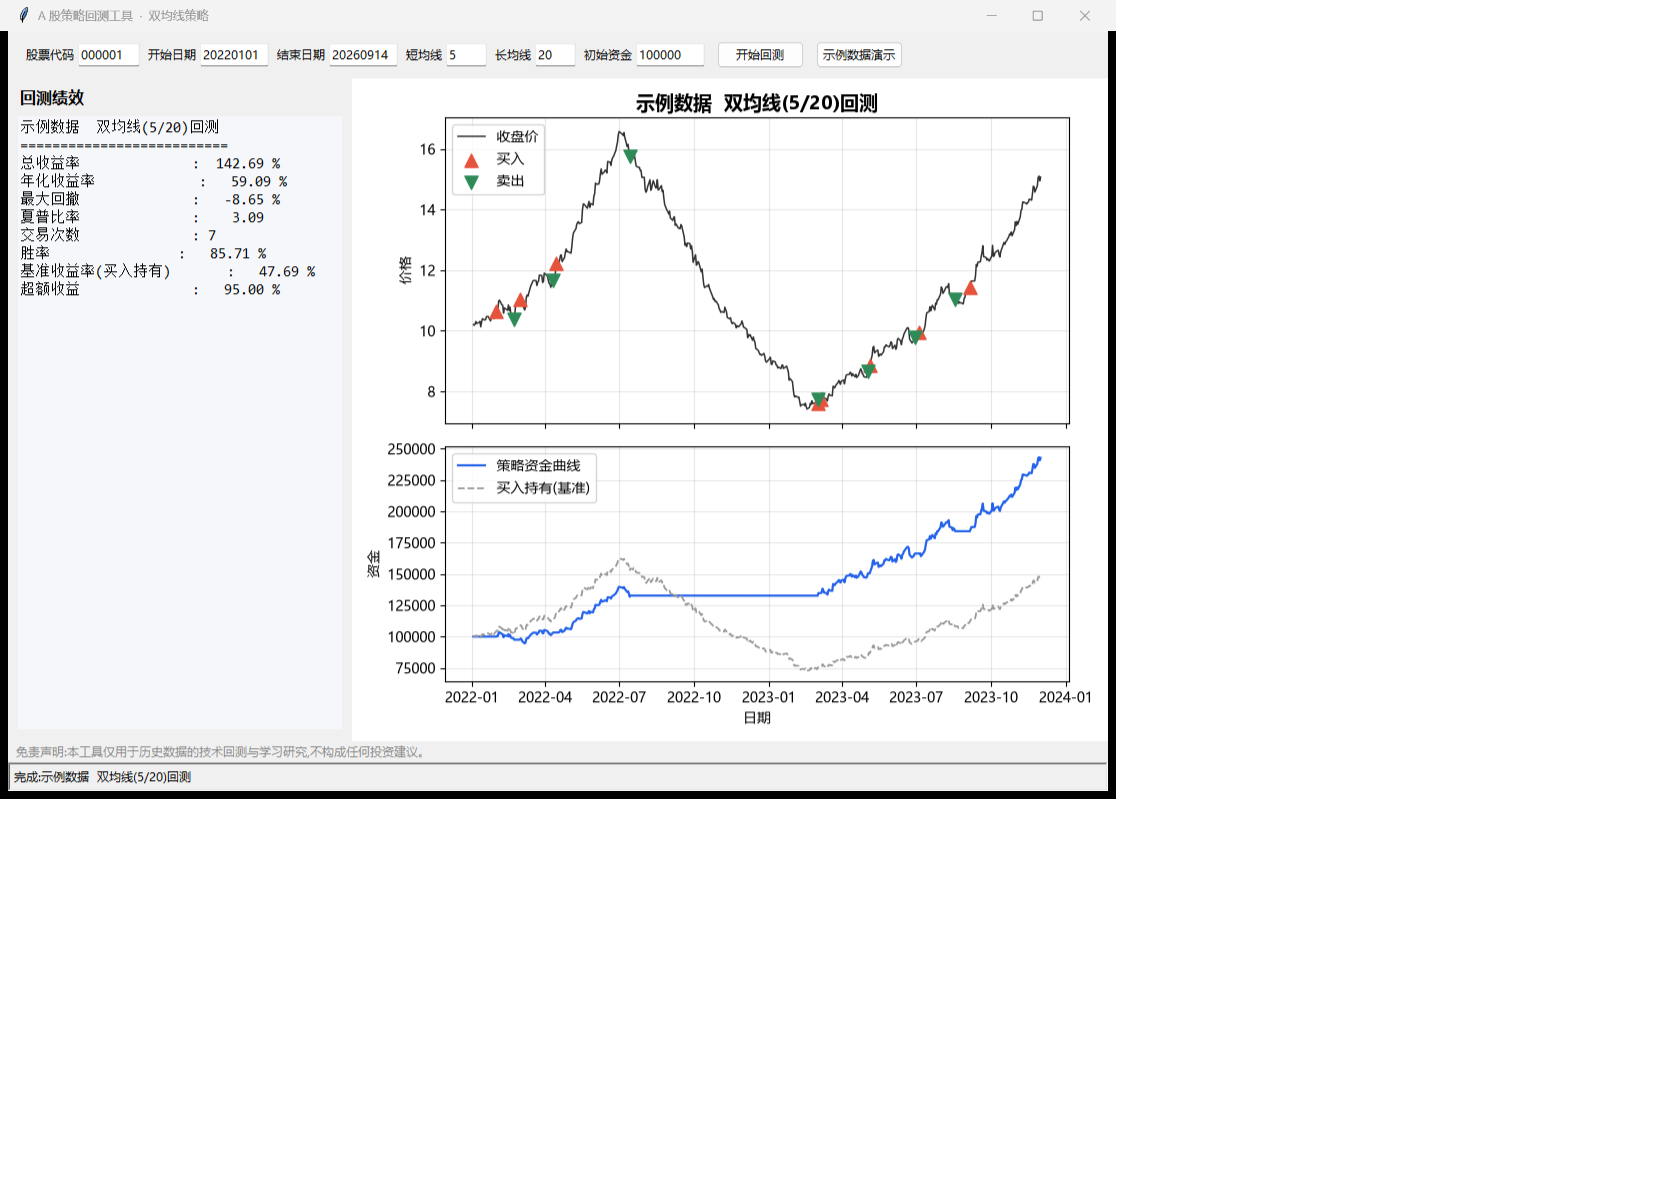
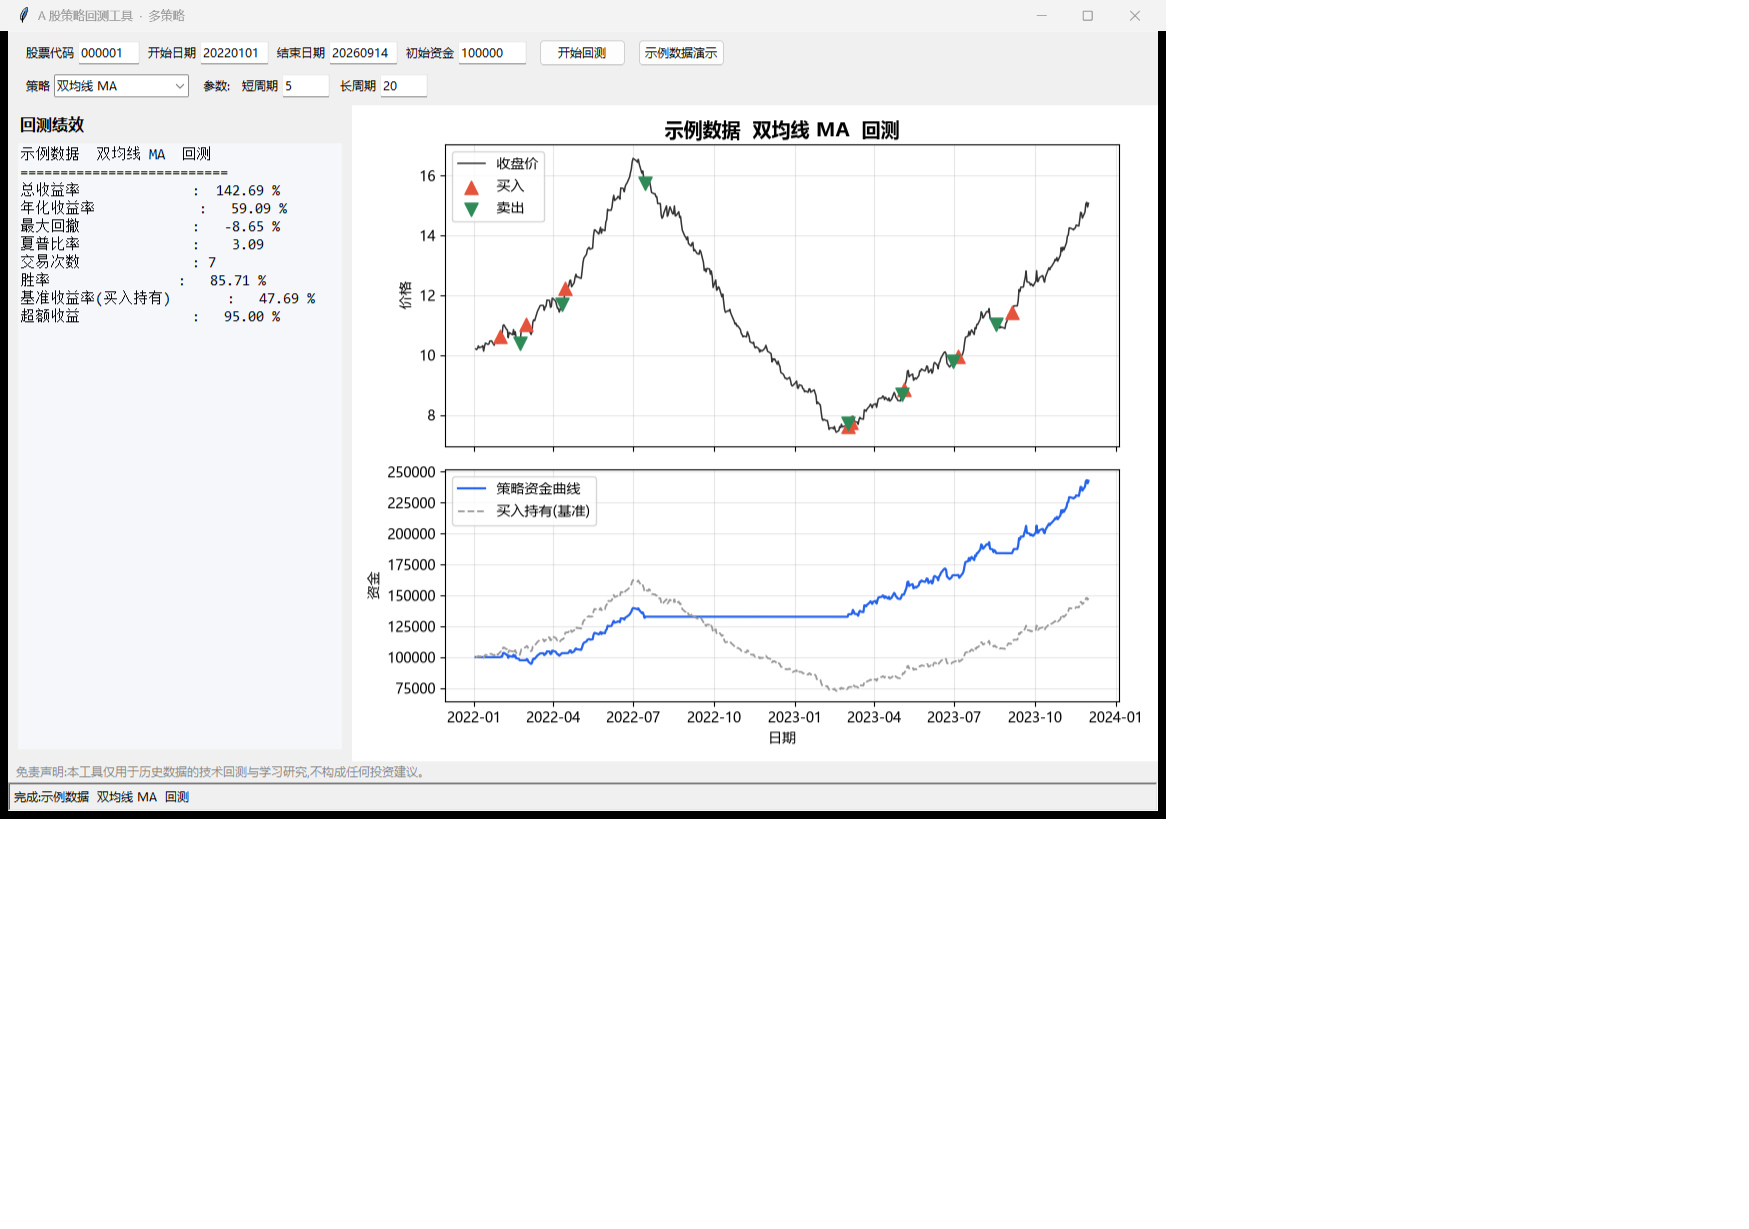
新增 RSI / 布林带 / MACD 策略,GUI 支持策略选择与动态参数

diff --git a/gui.py b/gui.py
@@ -1,8 +1,8 @@
 # -*- coding: utf-8 -*-
 """A 股策略回测工具 —— 图形界面(tkinter)
 
-输入股票代码与参数,点击"开始回测"即可查看绩效指标与资金曲线图。
-不懂代码也能用。
+选择策略、输入股票代码与参数,点击"开始回测"即可查看绩效指标与资金曲线图。
+内置双均线 / RSI / 布林带 / MACD 四种策略。不懂代码也能用。
 """
 
 import os
@@ -15,8 +15,8 @@ from matplotlib.figure import Figure
 from matplotlib.backends.backend_tkagg import FigureCanvasTkAgg
 
 from stock_backtest import (
-    BacktestConfig, load_data_akshare, load_data_csv,
-    signal_ma_cross, run_backtest, format_metrics,
+    BacktestConfig, STRATEGIES, strategy_label_to_key,
+    load_data_akshare, load_data_csv, run_backtest, format_metrics,
 )
 from plotting import render_axes
 
@@ -26,37 +26,62 @@ HERE = os.path.dirname(os.path.abspath(__file__))
 class BacktestApp:
     def __init__(self, root: tk.Tk):
         self.root = root
-        root.title("A 股策略回测工具  ·  双均线策略")
-        root.geometry("1100x760")
+        root.title("A 股策略回测工具  ·  多策略")
+        root.geometry("1150x780")
 
+        self.param_vars = {}   # 当前策略的参数变量
         self._build_input_bar()
         self._build_body()
-        self._set_status("就绪。输入股票代码后点击「开始回测」;无网络可点「示例数据演示」。")
+        self._rebuild_params()  # 初始化参数区
+        self._set_status("就绪。选择策略、输入股票代码后点「开始回测」;无网络可点「示例数据演示」。")
 
-    # ----- 顶部输入栏 -----
+    # ----- 顶部输入区(两行) -----
     def _build_input_bar(self):
-        bar = ttk.Frame(self.root, padding=10)
+        bar = ttk.Frame(self.root, padding=(10, 8))
         bar.pack(side=tk.TOP, fill=tk.X)
 
+        # 第一行:代码 / 日期 / 资金 / 按钮
+        row1 = ttk.Frame(bar)
+        row1.pack(side=tk.TOP, fill=tk.X)
         self.vars = {
             "symbol": tk.StringVar(value="000001"),
             "start": tk.StringVar(value="20220101"),
             "end": tk.StringVar(value=dt.date.today().strftime("%Y%m%d")),
-            "short": tk.StringVar(value="5"),
-            "long": tk.StringVar(value="20"),
             "cash": tk.StringVar(value="100000"),
         }
-        fields = [
-            ("股票代码", "symbol", 8), ("开始日期", "start", 9), ("结束日期", "end", 9),
-            ("短均线", "short", 5), ("长均线", "long", 5), ("初始资金", "cash", 9),
-        ]
-        for label, key, width in fields:
-            ttk.Label(bar, text=label).pack(side=tk.LEFT, padx=(6, 2))
-            ttk.Entry(bar, textvariable=self.vars[key], width=width).pack(side=tk.LEFT)
-
-        self.run_btn = ttk.Button(bar, text="开始回测", command=self.on_run)
+        for label, key, width in [("股票代码", "symbol", 8), ("开始日期", "start", 9),
+                                  ("结束日期", "end", 9), ("初始资金", "cash", 9)]:
+            ttk.Label(row1, text=label).pack(side=tk.LEFT, padx=(6, 2))
+            ttk.Entry(row1, textvariable=self.vars[key], width=width).pack(side=tk.LEFT)
+        self.run_btn = ttk.Button(row1, text="开始回测", command=self.on_run)
         self.run_btn.pack(side=tk.LEFT, padx=12)
-        ttk.Button(bar, text="示例数据演示", command=self.on_run_sample).pack(side=tk.LEFT)
+        ttk.Button(row1, text="示例数据演示", command=self.on_run_sample).pack(side=tk.LEFT)
+
+        # 第二行:策略选择 + 动态参数
+        row2 = ttk.Frame(bar)
+        row2.pack(side=tk.TOP, fill=tk.X, pady=(8, 0))
+        ttk.Label(row2, text="策略").pack(side=tk.LEFT, padx=(6, 2))
+        labels = [s["label"] for s in STRATEGIES.values()]
+        self.strategy_var = tk.StringVar(value=labels[0])
+        combo = ttk.Combobox(row2, textvariable=self.strategy_var, values=labels,
+                             state="readonly", width=16)
+        combo.pack(side=tk.LEFT)
+        combo.bind("<<ComboboxSelected>>", lambda e: self._rebuild_params())
+        ttk.Label(row2, text="   参数:").pack(side=tk.LEFT)
+        self.param_frame = ttk.Frame(row2)
+        self.param_frame.pack(side=tk.LEFT)
+
+    def _rebuild_params(self):
+        """根据当前策略重建参数输入框。"""
+        for w in self.param_frame.winfo_children():
+            w.destroy()
+        self.param_vars = {}
+        key = strategy_label_to_key(self.strategy_var.get())
+        for pk, plabel, default, _typ in STRATEGIES[key]["params"]:
+            ttk.Label(self.param_frame, text=plabel).pack(side=tk.LEFT, padx=(8, 2))
+            var = tk.StringVar(value=str(default))
+            ttk.Entry(self.param_frame, textvariable=var, width=6).pack(side=tk.LEFT)
+            self.param_vars[pk] = var
 
     # ----- 主体:左指标 + 右图表 -----
     def _build_body(self):
@@ -78,8 +103,6 @@ class BacktestApp:
 
         self.status = ttk.Label(self.root, text="", anchor=tk.W, relief=tk.SUNKEN, padding=4)
         self.status.pack(side=tk.BOTTOM, fill=tk.X)
-
-        # 免责声明
         ttk.Label(self.root, text="免责声明:本工具仅用于历史数据的技术回测与学习研究,不构成任何投资建议。",
                   foreground="#888").pack(side=tk.BOTTOM, fill=tk.X, padx=6)
 
@@ -113,12 +136,15 @@ class BacktestApp:
     def _worker(self, loader):
         try:
             df, name = loader()
-            short = int(self.vars["short"].get())
-            long = int(self.vars["long"].get())
+            key = strategy_label_to_key(self.strategy_var.get())
+            spec = STRATEGIES[key]
+            kwargs = {}
+            for pk, plabel, default, typ in spec["params"]:
+                kwargs[pk] = typ(self.param_vars[pk].get())
             cash = float(self.vars["cash"].get())
-            pos = signal_ma_cross(df, short, long)
+            pos = spec["func"](df, **kwargs)
             result = run_backtest(df, pos, BacktestConfig(initial_cash=cash))
-            title = f"{name}  双均线({short}/{long})回测"
+            title = f"{name}  {spec['label']}  回测"
             self.root.after(0, self._show_result, result, title)
         except Exception as e:  # noqa: BLE001
             self.root.after(0, self._show_error, str(e))

diff --git a/cli.py b/cli.py
@@ -2,28 +2,44 @@
 """命令行入口:一条命令跑完整回测并出图。
 
 用法示例:
-    python cli.py --symbol 000001 --start 20220101 --end 20240101 --short 5 --long 20
-    python cli.py --csv mydata.csv --short 10 --long 30
+    python cli.py --symbol 000001 --start 20220101 --end 20240101
+    python cli.py --symbol 600519 --strategy macd
+    python cli.py --strategy rsi --params period=14,oversold=30,overbought=70 --symbol 000001
+    python cli.py --csv sample_data.csv --strategy boll --params period=20,num_std=2
 """
 
 import argparse
 import datetime as dt
 
 from stock_backtest import (
-    BacktestConfig, load_data_akshare, load_data_csv,
-    signal_ma_cross, run_backtest, format_metrics,
+    BacktestConfig, STRATEGIES, load_data_akshare, load_data_csv,
+    run_backtest, format_metrics,
 )
 from plotting import plot_result
 
 
+def parse_params(spec_params, params_str):
+    """把 'k=v,k=v' 解析成带类型的 kwargs,缺省用默认值。"""
+    overrides = {}
+    if params_str:
+        for kv in params_str.split(","):
+            k, _, v = kv.partition("=")
+            overrides[k.strip()] = v.strip()
+    kwargs = {}
+    for pk, plabel, default, typ in spec_params:
+        kwargs[pk] = typ(overrides[pk]) if pk in overrides else default
+    return kwargs
+
+
 def main():
-    p = argparse.ArgumentParser(description="A 股双均线策略回测工具")
+    p = argparse.ArgumentParser(description="A 股多策略回测工具")
     p.add_argument("--symbol", help="6 位股票代码,如 000001")
     p.add_argument("--csv", help="本地行情 CSV 路径(与 --symbol 二选一)")
     p.add_argument("--start", default="20220101", help="开始日期 YYYYMMDD")
     p.add_argument("--end", default=dt.date.today().strftime("%Y%m%d"), help="结束日期 YYYYMMDD")
-    p.add_argument("--short", type=int, default=5, help="短均线周期")
-    p.add_argument("--long", type=int, default=20, help="长均线周期")
+    p.add_argument("--strategy", default="ma", choices=list(STRATEGIES.keys()),
+                   help="策略: ma / rsi / boll / macd")
+    p.add_argument("--params", default="", help="策略参数,如 short=5,long=20")
     p.add_argument("--cash", type=float, default=100000, help="初始资金")
     p.add_argument("--out", default="backtest_result.png", help="输出图片路径")
     args = p.parse_args()
@@ -38,17 +54,19 @@ def main():
     else:
         p.error("请提供 --symbol 或 --csv")
 
-    pos = signal_ma_cross(df, args.short, args.long)
-    cfg = BacktestConfig(initial_cash=args.cash)
-    result = run_backtest(df, pos, cfg)
+    spec = STRATEGIES[args.strategy]
+    kwargs = parse_params(spec["params"], args.params)
+    pos = spec["func"](df, **kwargs)
+    result = run_backtest(df, pos, BacktestConfig(initial_cash=args.cash))
 
-    title = f"{name}  双均线({args.short}/{args.long})回测"
-    print("\n" + "=" * 44)
+    param_str = ", ".join(f"{k}={v}" for k, v in kwargs.items())
+    title = f"{name}  {spec['label']}({param_str})"
+    print("\n" + "=" * 48)
     print(f" {title}")
     print(f" 区间: {df.index[0].date()} ~ {df.index[-1].date()}  共 {len(df)} 个交易日")
-    print("=" * 44)
+    print("=" * 48)
     print(format_metrics(result.metrics))
-    print("=" * 44)
+    print("=" * 48)
 
     out = plot_result(result, title, args.out)
     print(f"\n资金曲线图已保存: {out}")

diff --git a/stock_backtest.py b/stock_backtest.py
@@ -104,6 +104,84 @@ def signal_ma_cross(df: pd.DataFrame, short: int = 5, long: int = 20) -> pd.Seri
     return pos
 
 
+def _rsi(close: pd.Series, period: int) -> pd.Series:
+    """相对强弱指标 RSI(Wilder 平滑)。"""
+    delta = close.diff()
+    up = delta.clip(lower=0)
+    down = -delta.clip(upper=0)
+    roll_up = up.ewm(alpha=1 / period, adjust=False).mean()
+    roll_down = down.ewm(alpha=1 / period, adjust=False).mean()
+    rs = roll_up / roll_down.replace(0, np.nan)
+    return 100 - 100 / (1 + rs)
+
+
+def signal_rsi(df: pd.DataFrame, period: int = 14, oversold: int = 30,
+               overbought: int = 70) -> pd.Series:
+    """RSI 策略:超卖(RSI<oversold)买入,超买(RSI>overbought)卖出,中间持有。"""
+    rsi = _rsi(df["close"], period)
+    sig = pd.Series(np.nan, index=df.index)
+    sig[rsi < oversold] = 1
+    sig[rsi > overbought] = 0
+    pos = sig.ffill().fillna(0)
+    return pos.shift(1).fillna(0)
+
+
+def signal_bollinger(df: pd.DataFrame, period: int = 20, num_std: float = 2.0) -> pd.Series:
+    """布林带均值回归:跌破下轨买入,回到中轨卖出。"""
+    mid = df["close"].rolling(period).mean()
+    std = df["close"].rolling(period).std()
+    lower = mid - num_std * std
+    sig = pd.Series(np.nan, index=df.index)
+    sig[df["close"] < lower] = 1
+    sig[df["close"] > mid] = 0
+    pos = sig.ffill().fillna(0)
+    return pos.shift(1).fillna(0)
+
+
+def signal_macd(df: pd.DataFrame, fast: int = 12, slow: int = 26, signal: int = 9) -> pd.Series:
+    """MACD 策略:DIF 上穿 DEA(信号线)持仓,下穿空仓。"""
+    ema_fast = df["close"].ewm(span=fast, adjust=False).mean()
+    ema_slow = df["close"].ewm(span=slow, adjust=False).mean()
+    dif = ema_fast - ema_slow
+    dea = dif.ewm(span=signal, adjust=False).mean()
+    pos = (dif > dea).astype(int)
+    return pos.shift(1).fillna(0)
+
+
+# 策略注册表:key -> {label, func, params[(key,label,default,type), ...]}
+STRATEGIES = {
+    "ma": {
+        "label": "双均线 MA",
+        "func": signal_ma_cross,
+        "params": [("short", "短周期", 5, int), ("long", "长周期", 20, int)],
+    },
+    "rsi": {
+        "label": "RSI 超买超卖",
+        "func": signal_rsi,
+        "params": [("period", "周期", 14, int), ("oversold", "超卖线", 30, int),
+                   ("overbought", "超买线", 70, int)],
+    },
+    "boll": {
+        "label": "布林带 均值回归",
+        "func": signal_bollinger,
+        "params": [("period", "周期", 20, int), ("num_std", "标准差倍数", 2.0, float)],
+    },
+    "macd": {
+        "label": "MACD 金叉死叉",
+        "func": signal_macd,
+        "params": [("fast", "快线", 12, int), ("slow", "慢线", 26, int),
+                   ("signal", "信号线", 9, int)],
+    },
+}
+
+
+def strategy_label_to_key(label: str) -> str:
+    for k, v in STRATEGIES.items():
+        if v["label"] == label:
+            return k
+    raise ValueError(f"未知策略: {label}")
+
+
 # --------------------------------------------------------------------------- #
 # 回测引擎
 # --------------------------------------------------------------------------- #

diff --git a/README.md b/README.md
@@ -1,13 +1,17 @@
 # StockBacktest · A股策略回测工具
 
-一款基于 **Python** 的 A 股（双均线）策略回测小工具,带图形界面。输入股票代码与参数,自动获取历史行情、回测策略,并给出绩效指标与资金曲线图。
+一款基于 **Python** 的 A 股**多策略**回测小工具,带图形界面。输入股票代码与参数,自动获取历史行情、回测策略,并给出绩效指标与资金曲线图。内置**双均线 / RSI / 布林带 / MACD** 四种策略。
 
 > ⚠ 免责声明:本工具仅用于历史数据的技术回测与学习研究,**不构成任何投资建议**。据此操作,风险自负。
 
 ## 功能
 
 - **自动获取行情**:通过 `akshare` 免费获取 A 股日线数据(也支持读取本地 CSV)
-- **双均线策略**:短均线上穿长均线买入、下穿卖出,周期参数可调
+- **四种内置策略**(参数均可调):
+  - 双均线 MA:短均线上穿长均线买入、下穿卖出
+  - RSI 超买超卖:超卖买入、超买卖出
+  - 布林带均值回归:跌破下轨买入、回到中轨卖出
+  - MACD 金叉死叉:DIF 上穿 DEA 买入、下穿卖出
 - **绩效指标**:总收益率、年化收益率、最大回撤、夏普比率、胜率、交易次数
 - **基准对比**:与"买入并持有"对比,给出超额收益
 - **可视化**:价格 + 买卖点标注图、策略资金曲线 vs 基准
